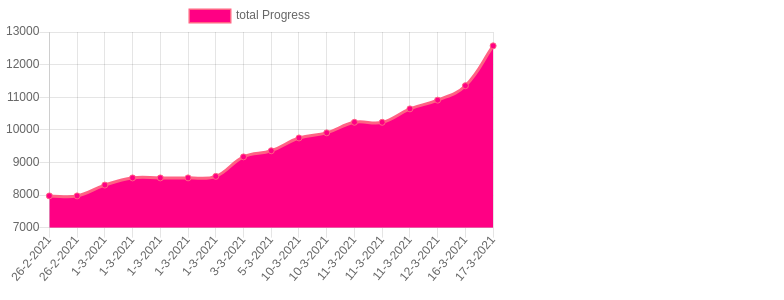
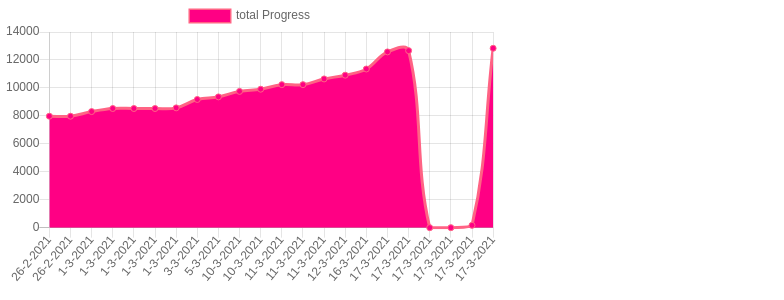
code: init denti-code tracker

Changed region(s): [[0.0, 0.12, 0.6429, 0.93], [0.0, 0.75, 0.0612, 0.78], [0.0, 0.09, 0.0306, 0.12]]

diff --git a/total.html b/total.html
@@ -9,7 +9,7 @@
         <script src="https://cdn.jsdelivr.net/npm/chart.js@2.8.0"></script>
         <script>
           var ctx = document.getElementById("total").getContext("2d");
-          const goLabelsDates = ["2021-02-27T01:37:43.112Z","2021-02-27T01:38:01.628Z","2021-03-01T13:41:18.753Z","2021-03-01T14:53:41.991Z","2021-03-01T15:08:00.851Z","2021-03-01T15:09:10.635Z","2021-03-01T15:22:55.385Z","2021-03-03T15:31:41.151Z","2021-03-05T14:02:13.446Z","2021-03-10T14:50:13.297Z","2021-03-11T01:54:03.424Z","2021-03-11T15:32:47.647Z","2021-03-11T16:01:51.191Z","2021-03-12T00:36:04.646Z","2021-03-13T00:14:58.179Z","2021-03-16T05:30:04.043Z","2021-03-17T21:17:52.181Z",];
+          const goLabelsDates = ["2021-02-27T01:37:43.112Z","2021-02-27T01:38:01.628Z","2021-03-01T13:41:18.753Z","2021-03-01T14:53:41.991Z","2021-03-01T15:08:00.851Z","2021-03-01T15:09:10.635Z","2021-03-01T15:22:55.385Z","2021-03-03T15:31:41.151Z","2021-03-05T14:02:13.446Z","2021-03-10T14:50:13.297Z","2021-03-11T01:54:03.424Z","2021-03-11T15:32:47.647Z","2021-03-11T16:01:51.191Z","2021-03-12T00:36:04.646Z","2021-03-13T00:14:58.179Z","2021-03-16T05:30:04.043Z","2021-03-17T21:17:52.181Z","2021-03-18T03:42:56.998Z","2021-03-18T03:44:29.834Z","2021-03-18T03:45:35.160Z","2021-03-18T03:45:54.668Z","2021-03-18T03:48:46.007Z",];
           var chart = new Chart(ctx, {
             type: 'line',
             data: {
@@ -18,7 +18,7 @@
                 label: 'total Progress',
                 backgroundColor: 'rgb(255, 0, 132)',
                 borderColor: 'rgb(255, 99, 132)',
-                data: [7975,7975,8307,8526,8526,8527,8573,9171,9358,9751,9908,10232,10231,10643,10911,11353,12576,]
+                data: [7975,7975,8307,8526,8526,8527,8573,9171,9358,9751,9908,10232,10231,10643,10911,11353,12576,12666,0,0,169,12835,]
               }]
             },
           });

diff --git a/denti-code.html b/denti-code.html
@@ -1,0 +1,28 @@
+
+      <!DOCTYPE HTML>
+      <html>
+      <head></head>
+      <body>
+        <div style="width: 500px;">
+          <canvas id="denti-code" width="500" height="300"></canvas>
+        </div>
+        <script src="https://cdn.jsdelivr.net/npm/chart.js@2.8.0"></script>
+        <script>
+          var ctx = document.getElementById("denti-code").getContext("2d");
+          const goLabelsDates = ["2021-03-18T03:42:56.996Z","2021-03-18T03:48:46.006Z",];
+          var chart = new Chart(ctx, {
+            type: 'line',
+            data: {
+              labels: goLabelsDates.map(x => new Date(x).getDate() + "-" + (new Date(x).getMonth() + 1) + "-" + new Date(x).getFullYear()),
+              datasets: [{
+                label: 'denti-code Progress',
+                backgroundColor: 'rgb(255, 0, 132)',
+                borderColor: 'rgb(255, 99, 132)',
+                data: [0,169,]
+              }]
+            },
+          });
+        </script>
+      </body>
+      </html>  
+      

diff --git a/Readme.md b/Readme.md
@@ -4,17 +4,18 @@
 |js|3053|153|153|![js](https://raw.githubusercontent.com/kapit4n/l-10000-dev/master/js.png)|react, , angular, sequelize, mongoose, prisma, node js.|
 |go|2307|115|115|![go](https://raw.githubusercontent.com/kapit4n/l-10000-dev/master/go.png)|structs, loops|
 |ruby|1908|95|95|![ruby](https://raw.githubusercontent.com/kapit4n/l-10000-dev/master/ruby.png)|migrations, ruby on rails, presenters, models|
+|python|1581|79|79|![python](https://raw.githubusercontent.com/kapit4n/l-10000-dev/master/python.png)|collections, |
 |scala|1541|77|77|![scala](https://raw.githubusercontent.com/kapit4n/l-10000-dev/master/scala.png)|play framework, akka, collections|
-|python|1501|75|75|![python](https://raw.githubusercontent.com/kapit4n/l-10000-dev/master/python.png)|collections, |
 |java|1265|63|63|![java](https://raw.githubusercontent.com/kapit4n/l-10000-dev/master/java.png)|reflexion, strings, generics, documentation|
 |ts|945|47|47|![ts](https://raw.githubusercontent.com/kapit4n/l-10000-dev/master/ts.png)|angular, microORM, typeORM, node js.|
-|words|47|2|2|![words](https://raw.githubusercontent.com/kapit4n/l-10000-dev/master/words.png)||
+|denti-code|169|8|8|![denti-code](https://raw.githubusercontent.com/kapit4n/l-10000-dev/master/denti-code.png)|react,, hooks|
+|words|57|3|3|![words](https://raw.githubusercontent.com/kapit4n/l-10000-dev/master/words.png)||
 |sql|9|0|0|![sql](https://raw.githubusercontent.com/kapit4n/l-10000-dev/master/sql.png)||
 |dotnet|0|0|0|![dotnet](https://raw.githubusercontent.com/kapit4n/l-10000-dev/master/dotnet.png)||
-|TOTAL|12576|1257.600%|
+|TOTAL|12835|1283.500%|
 10/02(0)
 
-10/03(12576)
+10/03(12835)
 
 
 # run it
@@ -37,4 +38,4 @@ node ./count.js
 * Angular, React, Vue
 * Spring, Play
 * Scala, Java
-, 2021-03-17T21:17:52.181Z
+, 2021-03-18T03:48:46.008Z
